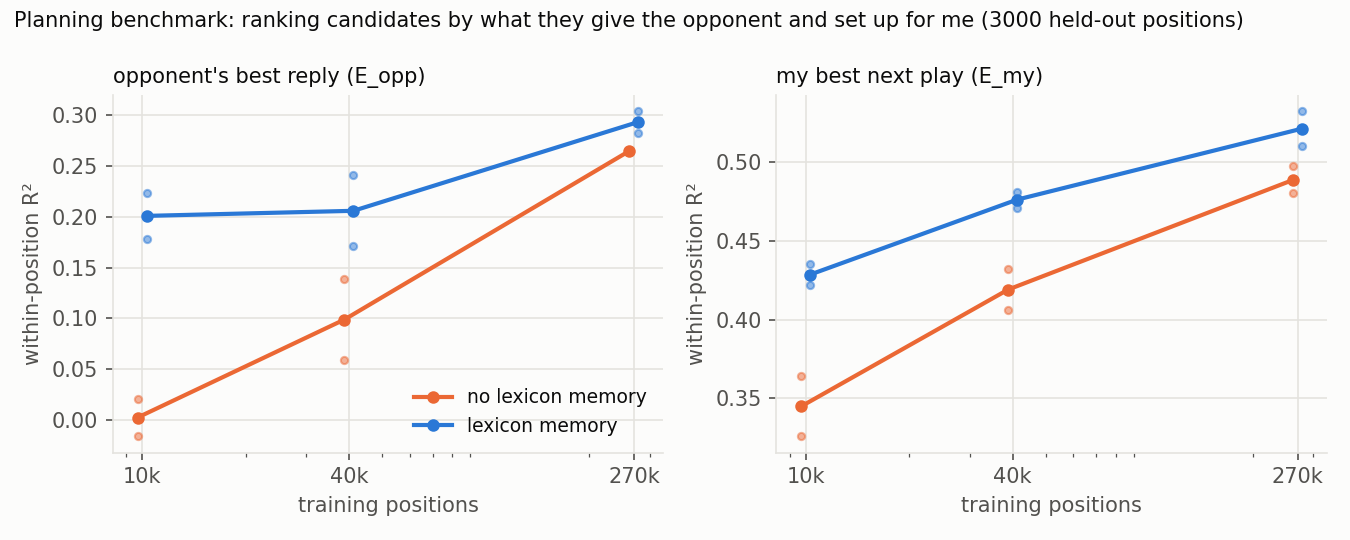
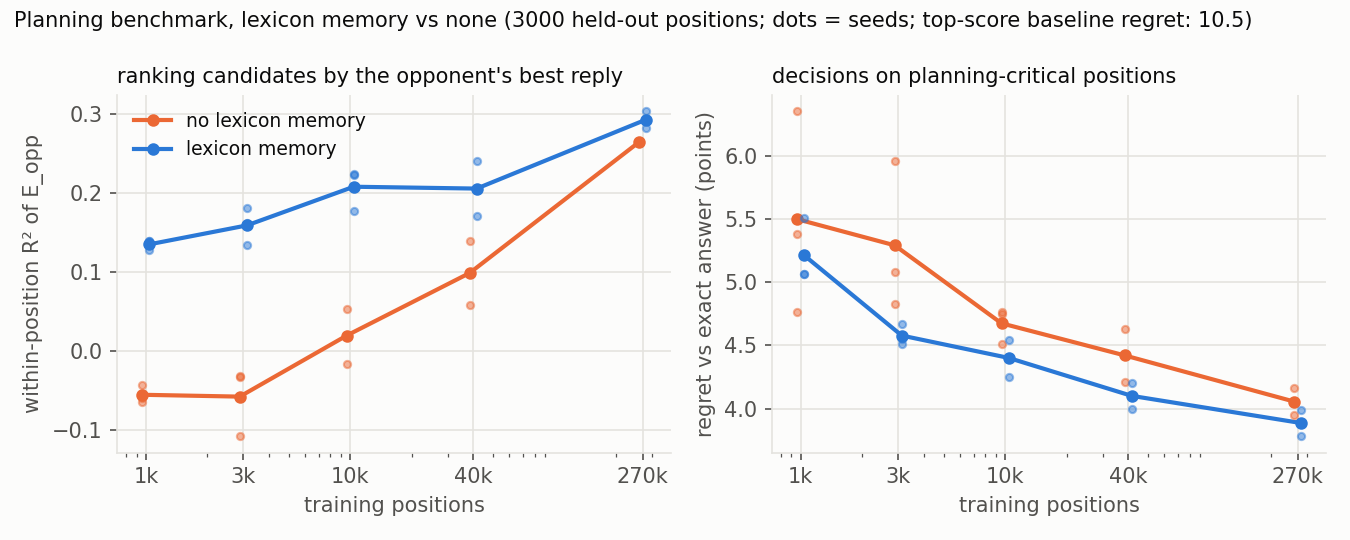
Planning benchmark: small-data curve (1k-270k, 3 seeds), ranking-loss result

diff --git a/tools/make_figures.py b/tools/make_figures.py
@@ -89,16 +89,20 @@ fig.suptitle("Lexicon memory vs none: value from our own rollouts (19,703 held-o
 save(fig, "lexmem_sample_efficiency")
 
 # 6. planning benchmark: within-position R² (what decides moves) of the two lexicon-dependent quantities vs training positions
-N = [10000, 40000, 270000]
-wo = {"no lexicon memory": [[.021, -.016], [.059, .139], [.266, .264]], "lexicon memory": [[.224, .178], [.171, .241], [.283, .304]]}
-wm = {"no lexicon memory": [[.364, .326], [.406, .432], [.497, .480]], "lexicon memory": [[.422, .435], [.471, .481], [.510, .532]]}
+N = [1000, 3000, 10000, 40000, 270000]
+wo = {"no lexicon memory": [[-.064, -.043, -.059], [-.033, -.032, -.108], [.021, -.016, .054], [.059, .139], [.266, .264]],
+      "lexicon memory": [[.139, .128, .139], [.181, .134, .163], [.224, .178, .223], [.171, .241], [.283, .304]]}
+creg = {"no lexicon memory": [[5.38, 6.35, 4.76], [5.96, 4.83, 5.08], [4.51, 4.75, 4.76], [4.63, 4.21], [3.95, 4.16]],
+        "lexicon memory": [[5.06, 5.51, 5.06], [4.51, 4.55, 4.67], [4.54, 4.41, 4.25], [4.20, 4.00], [3.99, 3.78]]}
 fig, axes = plt.subplots(1, 2, figsize=(9, 3.6))
-for ax, data, lab in ((axes[0], wo, "opponent's best reply (E_opp)"), (axes[1], wm, "my best next play (E_my)")):
-    for (name, vals), col, dx in zip(data.items(), (S2, S1), (0.97, 1.03)):
-        ax.plot([n * dx for n in N], [sum(v) / 2 for v in vals], color=col, lw=2, marker="o", ms=5, label=name)
-        for n, v in zip(N, vals): ax.scatter([n * dx] * 2, v, color=col, s=12, alpha=0.5, zorder=3)
-    ax.set_xscale("log"); ax.set_xticks(N); ax.set_xticklabels(["10k", "40k", "270k"]); ax.set_xlabel("training positions")
-    ax.set_ylabel("within-position R²"); ax.set_title(lab, loc="left", fontsize=10)
-axes[0].legend(frameon=False, fontsize=9, loc="lower right")
-fig.suptitle("Planning benchmark: ranking candidates by what they give the opponent and set up for me (3000 held-out positions)", x=0.01, ha="left", fontsize=10)
+for ax, data, lab, yl in ((axes[0], wo, "ranking candidates by the opponent's best reply", "within-position R² of E_opp"),
+                          (axes[1], creg, "decisions on planning-critical positions", "regret vs exact answer (points)")):
+    for (name, vals), col, dx in zip(data.items(), (S2, S1), (0.96, 1.04)):
+        ax.plot([n * dx for n in N], [sum(v) / len(v) for v in vals], color=col, lw=2, marker="o", ms=5, label=name)
+        for n, v in zip(N, vals): ax.scatter([n * dx] * len(v), v, color=col, s=12, alpha=0.5, zorder=3)
+    ax.set_xscale("log"); ax.set_xticks(N); ax.set_xticklabels(["1k", "3k", "10k", "40k", "270k"]); ax.set_xlabel("training positions")
+    ax.set_ylabel(yl); ax.set_title(lab, loc="left", fontsize=10)
+axes[0].legend(frameon=False, fontsize=9, loc="upper left")
+axes[1].text(1000, 10.2, "", fontsize=8)
+fig.suptitle("Planning benchmark, lexicon memory vs none (3000 held-out positions; dots = seeds; top-score baseline regret: 10.5)", x=0.01, ha="left", fontsize=10)
 save(fig, "lexplan_within_r2")

diff --git a/README.md b/README.md
@@ -215,13 +215,13 @@ top 8 of its lane: 0.42–0.44) but that has not turned into better evaluation. 
 
 ![Lexicon memory sample efficiency](docs/figures/lexmem_sample_efficiency.png)
 
-### 8. First positive result: the memory learns planning quantities from far less data (Oct 22–25)
+### 8. First positive result: the memory learns planning from far less data (Oct 22–26)
 A benchmark with exact answers: for each candidate move, the opponent's expected best reply and my expected best next play,
-computed by enumeration over the whole dictionary (256 shared tile samples each; no teacher, no value net). With 10k training
-positions the lexicon arm ranks candidates by the opponent's threat with within-position R² 0.20 — the no-memory control 0.00;
-on my own follow-ups 0.43 vs 0.35. The control catches up as data grows (0.27 vs 0.29 at 270k), so the memory acts as a
-**sample-efficiency prior for word-dependent planning**. Move choice improves only slightly so far (critical-position regret 3.89 vs
-4.06 points). Details: [docs/benchmarks.md](docs/benchmarks.md#planning-benchmark-round-2a-2026-10-22--25).
+computed by enumeration over the whole dictionary (256 shared tile samples each; no teacher, no value net). Without the memory
+the net cannot rank candidates by the opponent's threat at all until ~40k training positions (within-position R² ≤ 0.02); with
+it, 1k positions already give 0.13 and 10k give 0.21. Decisions follow at small data — critical-position regret 4.58 vs 5.29 points
+at 3k positions, 4.40 vs 4.67 at 10k — and the control catches up as data grows (3.89 vs 4.06 at 270k). The memory acts as a
+**sample-efficiency prior for word-dependent planning**. Details: [docs/benchmarks.md](docs/benchmarks.md#planning-benchmark-round-2a-2026-10-22--25).
 
 ![Planning benchmark](docs/figures/lexplan_within_r2.png)
 

diff --git a/docs/benchmarks.md b/docs/benchmarks.md
@@ -135,3 +135,22 @@ of 3000 held-out positions). Model: the stage-2 afterstate net, query encoder fr
 
 Lex > no-lex on every R² in every seed pair; the gap is largest with the least data (within-position E_opp 0.20 vs 0.00 at 10k)
 and narrows to +0.03 at 270k. Decision accuracy / regret move in the same direction but by less than the seed spread.
+
+**Small data (round 2b, 2026-10-26)** — same benchmark, 3 seeds (10k: seeds 0–2), within-position R² and decision regret:
+
+| Training positions | Arm | R² E_opp within | R² E_my within | Regret (all) | Regret (critical) |
+|---|---|---|---|---|---|
+| 1k | no-lex | −0.055 | 0.286 | 2.11 | 5.50 |
+| 1k | **lex** | **0.135** | **0.367** | **2.02** | **5.21** |
+| 3k | no-lex | −0.058 | 0.266 | 2.08 | 5.29 |
+| 3k | **lex** | **0.159** | **0.414** | **1.87** | **4.58** |
+| 10k | no-lex | 0.020 | 0.348 | 1.91 | 4.67 |
+| 10k | **lex** | **0.208** | **0.439** | **1.84** | **4.40** |
+
+Without the memory the net cannot rank candidates by the opponent's threat at all until ~40k positions (within-position R² ≤ 0.02);
+with it, 1k positions already give 0.13. Decisions follow: critical-position regret is 0.3–0.7 points lower with the memory at
+1k–10k positions.
+
+**Listwise ranking loss** (`LOSS=rank`, softmax over each position's candidates on the planning value, τ = 1.5 points, 4 positions
+per batch): worse for both arms at every size (regret 2.0–2.6 vs 1.7–2.1 with regression only; within-position R² near or below 0).
+The regression targets are the better training signal here; the ranking term as configured destabilises them.
